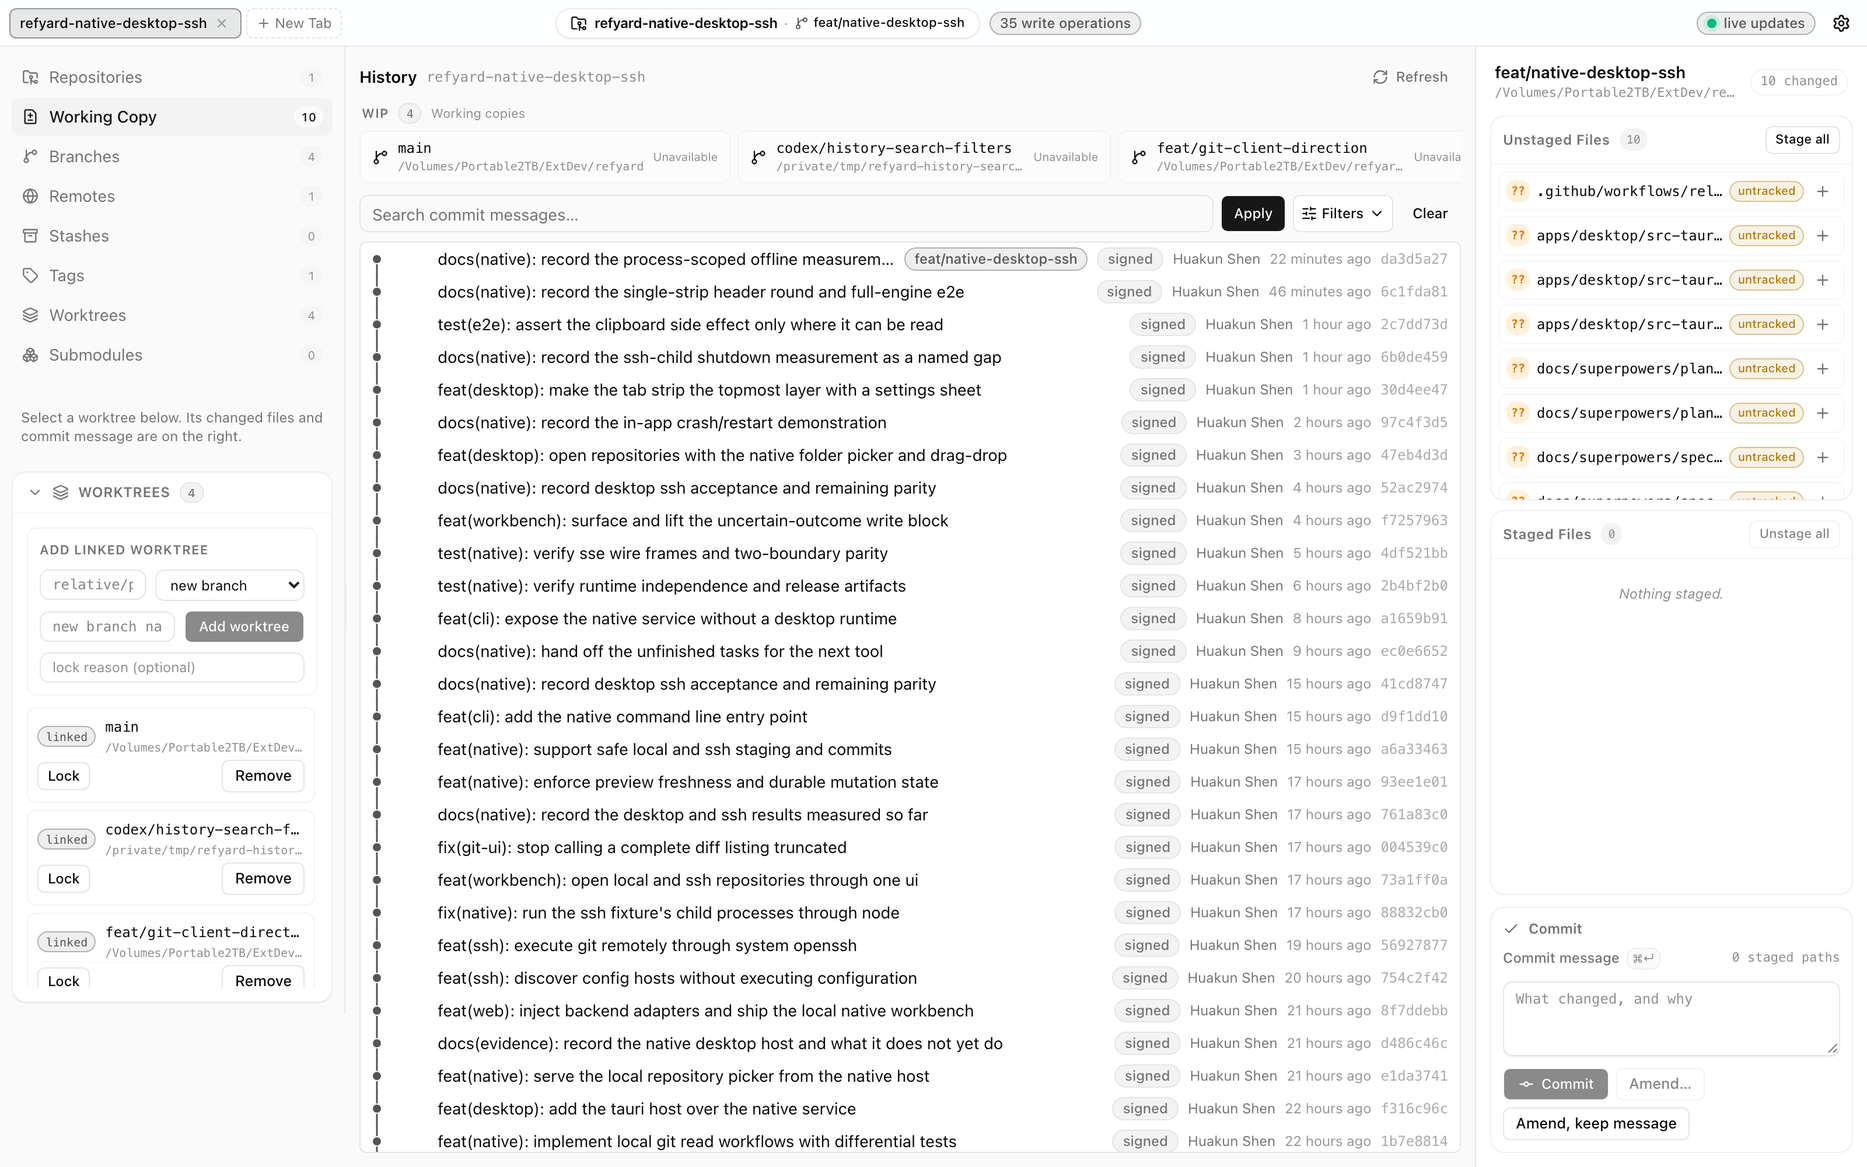
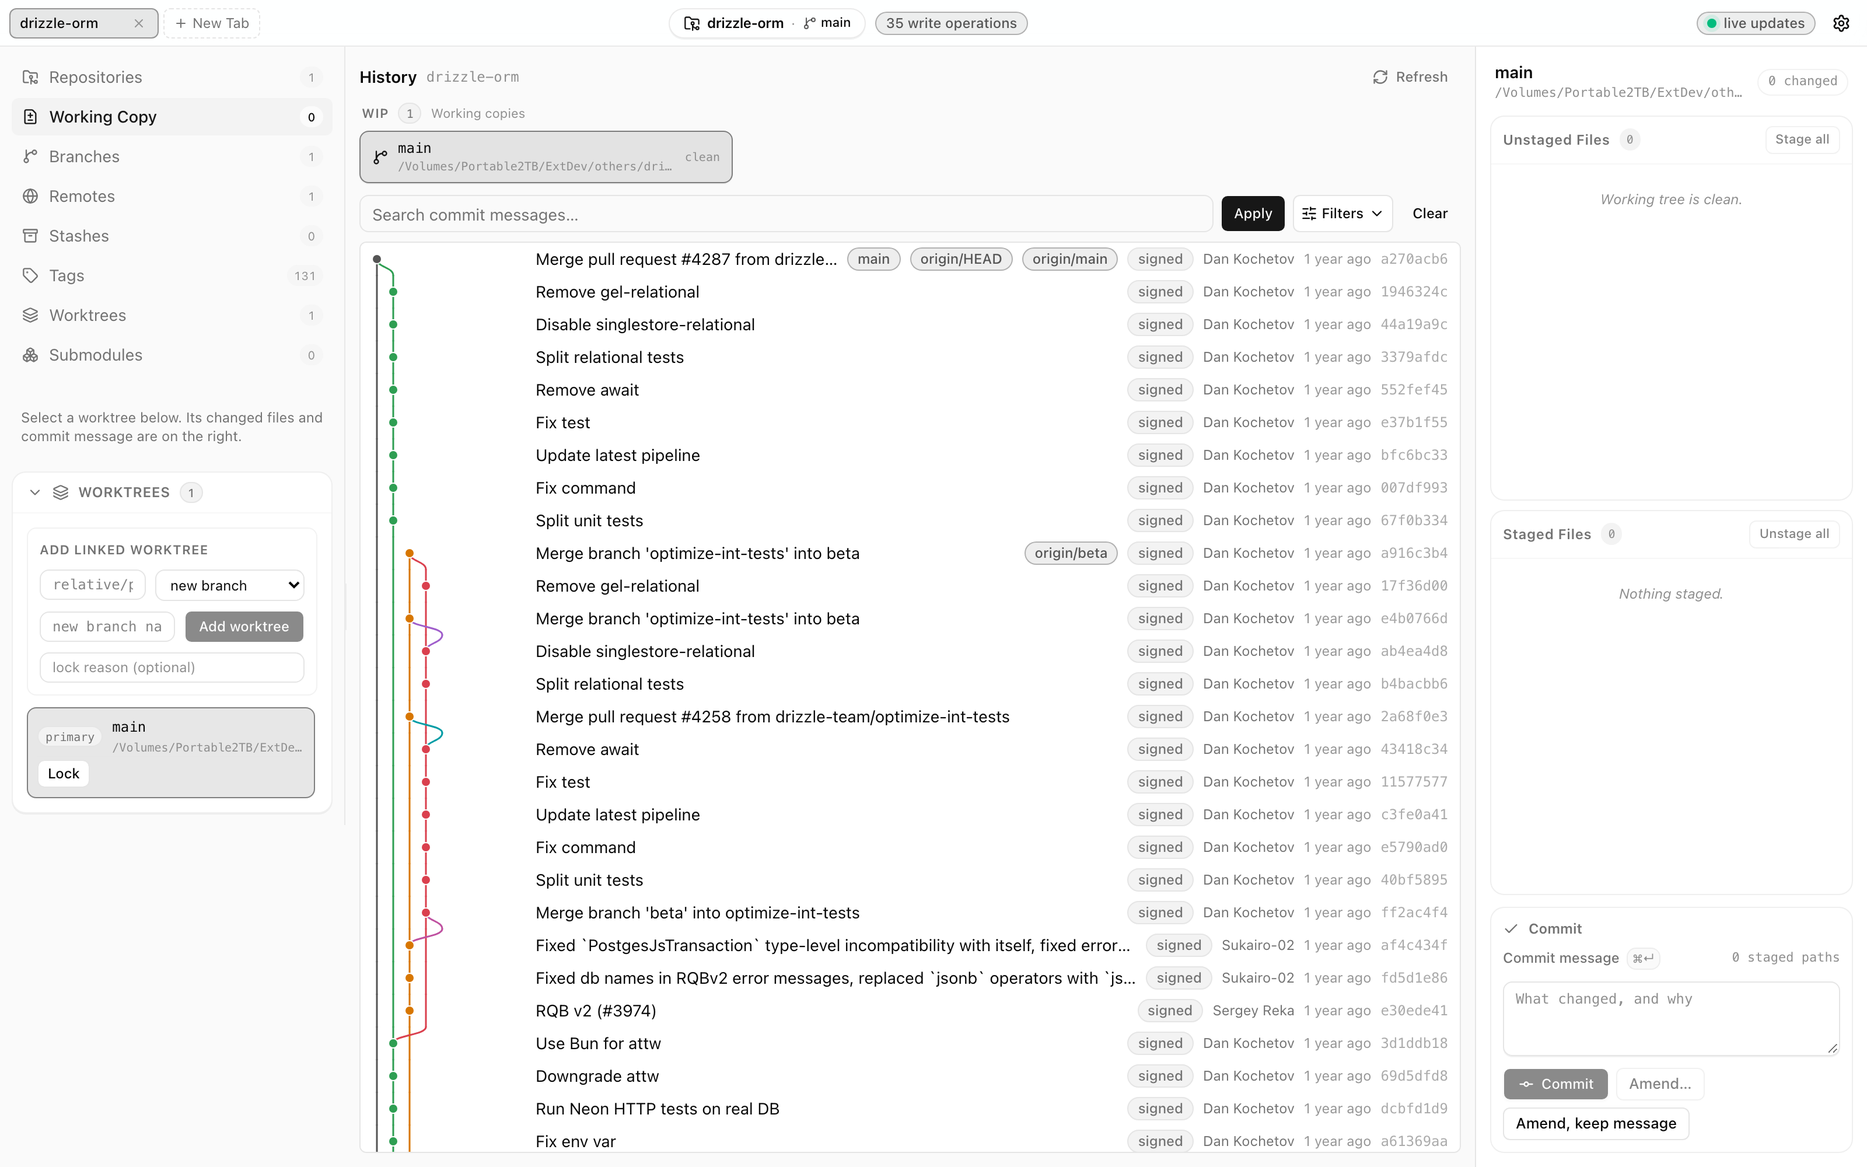
docs(readme): braided-history hero, VS Code extension, updates and install guide

diff --git a/README.md b/README.md
@@ -1,7 +1,7 @@
 # Refyard
 
-**A local-first Git workbench for people who want a beautiful graph without giving a hosted
-service their repository.**
+**A local-first Git workbench: the whole history of your repository in a beautiful graph,
+without giving a hosted service your repository.**
 
 [![npm version](https://img.shields.io/npm/v/refyard?logo=npm&label=npm)](https://www.npmjs.com/package/refyard)
 [![npm downloads](https://img.shields.io/npm/dm/refyard?logo=npm&label=downloads)](https://www.npmjs.com/package/refyard)
@@ -9,45 +9,69 @@ service their repository.**
 [![License](https://img.shields.io/github/license/HuakunShen/refyard)](LICENSE)
 [![Deploy to Cloudflare](https://deploy.workers.cloudflare.com/button)](https://deploy.workers.cloudflare.com/?url=https://github.com/HuakunShen/refyard)
 
-![The Refyard workbench running against its own repository](docs/assets/desktop-workbench.png)
+<picture>
+  <source media="(prefers-color-scheme: dark)" srcset="docs/assets/desktop-workbench-dark.png" />
+  <img src="docs/assets/desktop-workbench.png" alt="The Refyard desktop workbench: a braided commit history graph, the working copy, and the repository panel rail" />
+</picture>
 
-_Refyard reading this repository itself: one tab strip along the top, the signed history with
-its branch lane, the working copy with staged and unstaged files, and the commit box — a real
-local session, nothing mocked. The desktop app embeds this exact UI without a web server._
+_A real local session reading a large open-source repository: the signed, braided history with
+its parallel branch lanes, the working copy, and the panel rail — nothing mocked._
 
-## The idea
+Refyard drives **your machine's own `git`** and never asks for a hosted copy of your code. Git
+runs as you — with your hooks, filters, credential helpers, and SSH configuration — and the UI
+receives a closed JSON contract plus authenticated SSE updates. One repository ships two
+runtimes with the same UI and the same safety rules:
 
-Refyard keeps the privileged part on the machine that owns the repository. Git runs as you, with
-your hooks, filters, credential helpers, and SSH configuration; the browser receives a closed JSON
-contract and authenticated SSE updates.
+- **Native desktop app and CLI (Rust/Tauri 2)** — the headline form. A native macOS, Windows,
+  and Linux application whose Git engine is Rust (`crates/`); the UI is compiled in and talks to
+  the host over Tauri IPC, with no JavaScript runtime bundled (`pnpm native:verify` fails the
+  build if one ever shows up). It opens local repositories and remote repositories over SSH, with
+  hosts chosen from the machine's own `~/.ssh/config` — nothing is installed on the remote.
+- **Node CLI (`refyard open|serve|doctor`)** — serves an authenticated loopback HTTP API and the
+  static SvelteKit workbench from one local origin; the same UI is also deployable as a static
+  PWA to Cloudflare (below).
 
-```text
-your repository + your git + your Node host
-                    │ authenticated JSON/SSE
-                    ▼
-       bundled local UI / hosted Cloudflare UI
+Both runtimes speak one closed contract, rendered by one Svelte component library
+([`packages/git-ui`](packages/git-ui)) — which is also what the VS Code extension embeds.
+
+## What the workbench does
+
+- **History** — commit graph with colored lanes, signed-commit badges, branch/remote/tag ref
+  decorations, and commit search with filters.
+- **Working copy** — stage and unstage files, commit, amend the last commit, with per-file diffs.
+- **Panels** — Branches, Remotes, Stashes, Tags, Worktrees (add and lock linked worktrees), and
+  Submodules.
+- **Themes and settings** — dark, light, and system theme, plus accent and appearance options,
+  in a Settings dialog.
+- **Live updates** over SSE: the graph, status, and panels track the repository as it changes.
+
+## Get it
+
+Installers are published on [GitHub Releases](https://github.com/HuakunShen/refyard/releases/latest)
+by the tag-triggered desktop pipeline:
+
+| Platform              | Artifacts                       |
+| --------------------- | ------------------------------- |
+| macOS (Apple Silicon) | `Refyard_<version>_aarch64.dmg` |
+| macOS (Intel)         | `Refyard_<version>_x64.dmg`     |
+| Linux x64 and arm64   | `.deb` and `.AppImage`          |
+| Windows x64           | NSIS installer (`.exe`)         |
+
+Every artifact is minisign-signed, and each release carries a `latest.json` for the updater
+(see [Updates](#updates)).
+
+Homebrew (macOS), once the first release is published. The cask is versioned off the release
+DMG URLs, declares `auto_updates true` so the app's own updater stays in charge, and has a
+livecheck watching the releases:
+
+```sh
+brew install --cask HuakunShen/tap/refyard
 ```
 
-By default the npm package serves the same static Svelte UI from the loopback Git service, so
-`refyard open` is a one-command local workbench. The Cloudflare Worker is an optional asset-only
-remote UI host: it has no Git binding, repository path, shell, credential store, bearer token, or
-API proxy, and it never receives Git contents.
+The cask's source of truth lives in
+[`packaging/homebrew/Casks/refyard.rb`](packaging/homebrew/Casks/refyard.rb).
 
-## What ships
-
-| Surface               | Where it runs                             | What it owns                                                       |
-| --------------------- | ----------------------------------------- | ------------------------------------------------------------------ |
-| `refyard` npm package | Your Node machine                         | Git service plus bundled local workbench                           |
-| Native desktop app    | Your machine — release download or source | The same workbench over Tauri IPC; no JS runtime, no localhost hop |
-| `refyard-native` CLI  | Your machine, built from source           | Native `doctor`/`serve`/`open` with the same closed contract       |
-| Refyard PWA           | Local loopback or your Cloudflare account | UI, session negotiation, presentation                              |
-| Git Core              | Trusted TypeScript runtime                | Git intentions, parsers, planners, safety rules                    |
-| Cloudflare Worker     | Cloudflare edge                           | Static assets and secure response headers only                     |
-
-The current release line is `0.1.x`. The next package release prepared in this repository is
-`0.1.2`; it is published only by the tag-triggered `publish.yml` workflow after its gates pass.
-
-## Run it locally
+### Build from source
 
 Development uses Node 26.x and pnpm 11:
 
@@ -58,23 +82,32 @@ pnpm test
 pnpm build
 ```
 
-Start the complete local workbench for one explicitly chosen repository. It serves the bundled UI
-and opens the pairing URL in your browser:
+Native desktop app and CLI (macOS arm64 is what the test suites cover):
 
 ```sh
-pnpm cli open /absolute/path/to/repository
+pnpm desktop:build                        # Refyard.app under apps/desktop/src-tauri/target/release/bundle/macos
+cargo build --release -p refyard-native   # native CLI at target/release/refyard-native
 ```
 
-For a machine-readable supervisor, Xross/Kunkun integration, or separately hosted UI, use the
-explicit API-only command:
+The native CLI mirrors the Node commands:
 
 ```sh
-pnpm cli serve --repo /absolute/path/to/repository --no-open --json
+refyard-native doctor [--json]                 # what this machine can do; exit 2 when unusable
+refyard-native open <path>...                  # the service plus the built workbench
+refyard-native serve <path>... --json --no-open # API-only; readiness JSON on stdout, pairing URL on stderr
 ```
 
-The terminal prints a single-use pairing URL. Reads are authenticated too; the token stays in the
-browser session and is never placed in `localStorage`. Multiple repositories require repeated,
-explicit `--repo` arguments—Refyard never scans a parent directory.
+`--port` (default 9595; an explicitly requested busy port is refused), `--ticket-ttl`, `--json`,
+and `--no-open` behave as in the Node CLI. `--machine` is the native pairing mode for
+supervisors — readiness JSON on stdout, a single-use pairing URL on stderr — and is what the
+VS Code extension drives.
+
+Node CLI, from a checkout:
+
+```sh
+pnpm build:release    # bundles the CLI plus local SPA and stages packages/npm-dist
+pnpm pack:smoke       # packs it, installs it into a temporary HOME, and uses it
+```
 
 After the npm release, the installed form is:
 
@@ -84,71 +117,56 @@ npx refyard /absolute/path/to/repository
 refyard open /absolute/path/to/repository
 ```
 
-For local development, run `pnpm dev` to start an empty authenticated launcher. Open a local
-repository from the UI, use Browse to choose a folder through the local coordinator, reopen
-explicit Recent entries, or use New Tab to switch between multiple approved repositories. Clone
-and Create are available under an approved workspace root.
+## VS Code extension
 
-## The native desktop app and CLI
+[`apps/refyard-vscode`](apps/refyard-vscode) (publisher `HuakunShen`) brings the same workbench
+into VS Code for the repository you have open. It reuses the `@refyard/git-ui` Svelte components
+inside a webview to show the working-copy status, the history graph, and diffs — read-only for
+now; staging and commits land later.
 
-Alongside the Node runtime, this repository carries a **native** desktop app and a native CLI
-(`crates/`, Rust): the same application service and the same closed JSON contract, with the UI
-compiled into the app and every Git call driven by the machine's own `git` and OpenSSH. The app
-carries no JavaScript runtime, no backend bundle, and no localhost detour — the workbench talks
-to the host process over Tauri's IPC, and `pnpm native:verify` fails the build if a JavaScript
-engine ever shows up in the bundle. SSH targets are chosen from the machine's own SSH config and
-run the system `ssh`; nothing is installed on the remote.
-
-Build from source (macOS arm64 is what the tests cover):
+The extension spawns the local `refyard-native` CLI in machine-pairing mode (`--machine`):
+readiness JSON on stdout, a single-use pairing URL on stderr, and the ticket bound to the empty
+origin so no browser can spend it. The webview never sees a token. Configuration is
+`refyard.cliPath` (default `refyard-native` on PATH); commands are **Refyard: Open Workbench**
+(`refyard.openWorkbench`), **Refyard: Refresh** (`refyard.refresh`), and **Refyard: Shutdown
+Service** (`refyard.shutdown`). Build it as a `.vsix`:
 
 ```sh
-pnpm desktop:build      # Refyard.app under apps/desktop/src-tauri/target/release/bundle/macos
-cargo build --release -p refyard-native   # native CLI at target/release/refyard-native
+pnpm --dir apps/refyard-vscode package   # compiles host + webview, then emits refyard-0.1.0.vsix
 ```
 
-The native CLI mirrors the Node commands and the supervisor contract:
+![The Refyard history graph inside a VS Code webview](docs/assets/vscode-history.png)
 
-```sh
-refyard-native doctor                          # what this machine can do, exit 2 when unusable
-refyard-native serve <path> --json --no-open   # API-only; readiness JSON on stdout, pairing URL on stderr
-refyard-native open <path>                     # the same plus the static workbench from apps/web/build
-```
+## Updates
 
-`--port` (an explicitly requested busy port is refused), `--no-open`, `--json` and
-`--ticket-ttl` behave as in the Node CLI. A killed process records its in-flight operation as
-`unknown` in the journal (under the platform state directory) and the repository's next write
-stays blocked until a person confirms the state in the app. Runtime measurements and budgets
-live in `pnpm native:bench` and [`docs/evidence/native-runtime.json`](docs/evidence/native-runtime.json).
+The desktop app checks
+`https://github.com/HuakunShen/refyard/releases/latest/download/latest.json` — only when you
+ask it to. **Settings → Updates** has a manual **Check for updates** (it shows the available
+version; **Install and restart** applies it), and an automatic check at startup that is
+opt-in and defaults to **off**. Nothing is downloaded on its own.
 
-### What the native form adds
+Update packages are verified against the project's minisign public key, which ships inside the
+app, so an unsigned feed is refused. The same feed backs the Homebrew cask's `auto_updates`
+behaviour, so `brew upgrade` and the in-app updater never fight.
 
-- **One strip, browser-style.** The repository tabs are the window's topmost layer under an
-  overlay title bar; appearance — light/dark, accent, background, glass — lives in the in-app
-  Settings sheet instead of spending header space.
-- **Native open flows.** A folder opens through the system folder picker or a drag-and-drop
-  from Finder; the browser keeps its in-app path picker.
-- **SSH without installing anything remotely.** Hosts come from the machine's own SSH
-  configuration (parsed, never executed); Git runs through the system `ssh`, and reads work
-  against a remote repository with nothing on the far side but OpenSSH and Git.
-- **Offline by construction.** Local repositories keep working with the network gone — the app
-  holds no network sockets at all, measured under a process-scoped no-network sandbox
-  ([acceptance §9.15](docs/acceptance/2026-09-18-native-desktop-ssh.md)).
-- **Crash honesty.** A process killed mid-write records that operation as `unknown`, blocks the
-  repository's next write, and lifts the block only after an explicit acknowledgement in the UI.
+## The Node runtime and its loopback security model
 
-### Releases and install
+`refyard open <path>` starts the complete local workbench for explicitly chosen repositories
+and prints a single-use pairing URL in the terminal. `refyard serve --repo <path> --no-open
+--json` is the API-only form for supervisors, integrations, and separately hosted UI;
+`refyard doctor` reports what the machine can do.
 
-Pushing an `app-v<version>` tag runs [`release.yml`](.github/workflows/release.yml): the test
-contract gates first, then five runners build the app — macOS for Apple Silicon and Intel (DMG),
-Linux x86_64 and arm64 (deb, AppImage), Windows x64 (NSIS installer) — and publish the artifacts
-to a GitHub release automatically. A Homebrew cask tracks those DMGs
-([`packaging/homebrew/Casks/refyard.rb`](packaging/homebrew/Casks/refyard.rb)); once the first
-release is published, filling in its sha256 and pushing the cask to
-[`HuakunShen/homebrew-tap`](https://github.com/HuakunShen/homebrew-tap) makes it:
-
-```sh
-brew install --cask HuakunShen/refyard/refyard
-```
+- Loopback only. Default port 9595; if that is busy another free port is taken and named, an
+  explicitly requested busy `--port` is refused, and `--port 0` asks the OS for one.
+- Every HTTP call is authenticated — reads included. The terminal prints a single-use bootstrap
+  ticket; the browser exchanges it for an in-memory bearer that is never placed in
+  `localStorage`.
+- Exact `Origin`/`Host` checks, no CORS wildcard, JSON 404 for unknown `/api` paths, no
+  fallthrough to the SPA. Live updates arrive over authenticated SSE.
+- Multiple repositories require repeated, explicit `--repo` arguments — Refyard never scans a
+  parent directory.
+- The browser sends Git _intentions_; only trusted core turns intentions into Git arguments. No
+  raw `runGit(args, cwd)`, shell, `cwd`, or `env` crosses the HTTP or browser boundary.
 
 ## Deploy the UI to your own Cloudflare account
 
@@ -162,31 +180,38 @@ flow is available from a checkout:
 pnpm deploy
 ```
 
-The initial `PUBLIC_API_ORIGINS` value is empty by design. If you connect the UI to a remote
-machine, expose that machine's loopback API through your own HTTPS tunnel, configure that exact
-origin in the Worker, and start the CLI with matching `--allow-origin`, `--ui-origin`, and
-`--api-origin` values plus the environment-only `REFYARD_HOSTED_PASSWORD`. There is no central
-Refyard relay.
+The Worker is an asset-only remote UI host: it has no Git binding, repository path, shell,
+credential store, bearer token, or API proxy, and it never receives Git contents. The initial
+`PUBLIC_API_ORIGINS` value is empty by design, so the browser cannot call an arbitrary backend
+until the owner configures one. If you connect the UI to a remote machine, expose that
+machine's loopback API through your own HTTPS tunnel, configure that exact origin in the
+Worker, and start the CLI with matching `--allow-origin`, `--ui-origin`, and `--api-origin`
+values plus the environment-only `REFYARD_HOSTED_PASSWORD`. There is no central Refyard relay.
 
 ## Release and trust
 
-`ci.yml` is the test workflow. `publish.yml` is the only npm publisher and runs on `v*` tags after
-the package build and smoke tests; `release.yml` is the only desktop publisher and runs on
-`app-v*` tags after the same gate, so the two release lines can never be confused. It uses npm Trusted Publishing through GitHub OIDC with
-`environment: publish`; no `NPM_TOKEN` or `NODE_AUTH_TOKEN` is needed.
+`ci.yml` is the test workflow. `publish.yml` is the only npm publisher and runs on `v*` tags
+after the package build and smoke tests, using npm Trusted Publishing through GitHub OIDC with
+`environment: publish` — no `NPM_TOKEN` or `NODE_AUTH_TOKEN` is needed. `release.yml` is the
+only desktop publisher and runs on `app-v*` tags: the test contract gates first, then a
+five-runner matrix (macOS Apple Silicon and Intel, Ubuntu x64 and arm64, Windows x64) builds,
+signs, and publishes the artifacts and the updater's `latest.json` automatically. The two
+release lines can never be confused.
 
-The package and repository are licensed under the [GNU Affero General Public License v3.0 only](LICENSE).
-If you run a modified Refyard service for users over a network, AGPLv3's corresponding-source
-requirements apply to that deployment.
+The package and repository are licensed under the [GNU Affero General Public License v3.0
+only](LICENSE) (AGPL-3.0-only). If you run a modified Refyard service for users over a network,
+AGPLv3's corresponding-source requirements apply to that deployment.
 
 ## Safety boundary
 
 - Repository roots are approved explicitly and kept separate.
 - Destructive actions require confirmation, a backup where possible, and a verified precondition.
+- A killed process records its in-flight operation as `unknown`; the repository's next write
+  stays blocked until a person confirms the state in the app.
 - Unknown Git outcomes are reported as unknown and are never retried automatically.
 - The browser sends Git intentions; only trusted core creates Git arguments.
-- No raw `runGit(args, cwd)`, shell, `cwd`, or `env` crosses the HTTP or browser boundary.
-- The complete operation set is the one reported by `GET /api/v1/capabilities`.
+- The complete operation set is the one reported by `GET /api/v1/capabilities` — anything
+  unimplemented is simply absent, never faked.
 
 ## Repository map
 
@@ -194,11 +219,12 @@ requirements apply to that deployment.
 | ----------------------- | ------------------------------------------------------------------------ |
 | `apps/web`              | SvelteKit shell, static adapter, PWA, asset-only Worker                  |
 | `apps/cli`              | CLI grammar, `doctor`, `open`/`serve` lifecycle                          |
+| `apps/desktop`          | Tauri desktop shell over the same service; no JS runtime in the bundle   |
+| `apps/refyard-vscode`   | VS Code extension: the same UI in a webview, driven by `refyard-native`  |
 | `crates/refyard-core`   | Host-free Git planners, parsers, safety rules (Rust)                     |
 | `crates/refyard-host`   | Service, journal, queue, local and SSH providers (Rust)                  |
 | `crates/refyard-http`   | Native loopback HTTP entry with the same closed contract (Rust)          |
 | `crates/refyard-cli`    | Native CLI: `doctor`, `serve`, `open` (Rust)                             |
-| `apps/desktop`          | Tauri desktop shell over the same service; no JS runtime in the bundle   |
 | `packages/git-contract` | Public Zod schemas and JSON Schema                                       |
 | `packages/git-core`     | Host-free bytes, parsers, planners, workflows (TypeScript)               |
 | `packages/host-node`    | Processes, filesystem, registries, coordinator, HTTP host                |
@@ -208,5 +234,6 @@ requirements apply to that deployment.
 | `tests`                 | Contract, core, integration, security, browser, compatibility, packaging |
 | `docs`                  | Product decisions, plans, goals, evidence, release instructions          |
 
-More detail lives in [`docs/installation.md`](docs/installation.md), [`docs/releasing.md`](docs/releasing.md),
-and [`docs/evidence/release-matrix.md`](docs/evidence/release-matrix.md).
+More detail lives in [`docs/installation.md`](docs/installation.md),
+[`docs/releasing.md`](docs/releasing.md), and
+[`docs/evidence/release-matrix.md`](docs/evidence/release-matrix.md).
